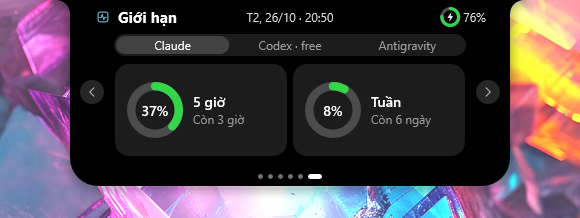
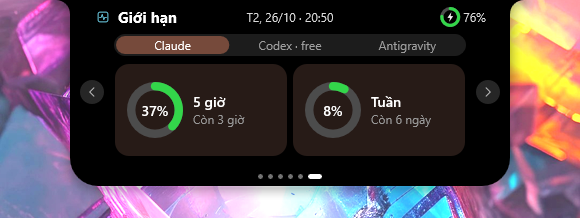
feat(limits): the chosen tab and the cards wear each app's colour

Changed region(s): [[0.1862, 0.1651, 0.4034, 0.2477]]

diff --git a/src/render/usage_page.rs b/src/render/usage_page.rs
@@ -20,6 +20,15 @@ fn ring_colour(used: f32) -> (f32, f32, f32) {
     if used < 60.0 { GREEN } else if used < 85.0 { ORANGE } else { RED }
 }
 
+/// Each app's own colour: the chosen tab and the cards carry a wash of it.
+fn app_accent(app: usage::App) -> (f32, f32, f32) {
+    match app {
+        usage::App::Claude => (0.85, 0.47, 0.34),
+        usage::App::Codex => (0.25, 0.8, 0.65),
+        usage::App::Antigravity => (0.55, 0.5, 1.0),
+    }
+}
+
 /// "Gemini · Week" -> (Some("Gemini"), "Week"); "5 h" -> (None, "5 h").
 fn split_label(label: &str) -> (Option<&str>, &str) {
     match label.rsplit_once(" · ") {
@@ -80,7 +89,8 @@ impl Renderer {
                 let Some(b) = segment(i) else { continue };
                 let inner = rect(b.left + 2.0 * s, b.top + 2.0 * s, b.right - 2.0 * s, b.bottom - 2.0 * s);
                 if i == tab {
-                    rt.FillRoundedRectangle(&rounded(inner, 9.0 * s), &self.brush(grey(0.26, a))?);
+                    let k = app_accent(*app);
+                    rt.FillRoundedRectangle(&rounded(inner, 9.0 * s), &self.brush(color(k.0 * 0.45 + 0.08, k.1 * 0.45 + 0.08, k.2 * 0.45 + 0.08, a))?);
                 } else if hovered == Some(Button::UsageTab(i)) {
                     rt.FillRoundedRectangle(&rounded(inner, 9.0 * s), &self.brush(grey(0.17, a))?);
                 }
@@ -97,7 +107,8 @@ impl Renderer {
             let top = CARDS_TOP * s;
             let card = |left: f32, width: f32| -> Result<D2D_RECT_F> {
                 let r = rect(left, top, left + width, top + CARDS_H * s);
-                self.rt.FillRoundedRectangle(&rounded(r, 14.0 * s), &self.brush(grey(0.11, a))?);
+                let k = app_accent(APPS[tab]);
+                self.rt.FillRoundedRectangle(&rounded(r, 14.0 * s), &self.brush(color(k.0 * 0.12 + 0.05, k.1 * 0.12 + 0.05, k.2 * 0.12 + 0.05, a))?);
                 Ok(r)
             };
             let Some(bars) = self.usage.get(APPS[tab]) else {
